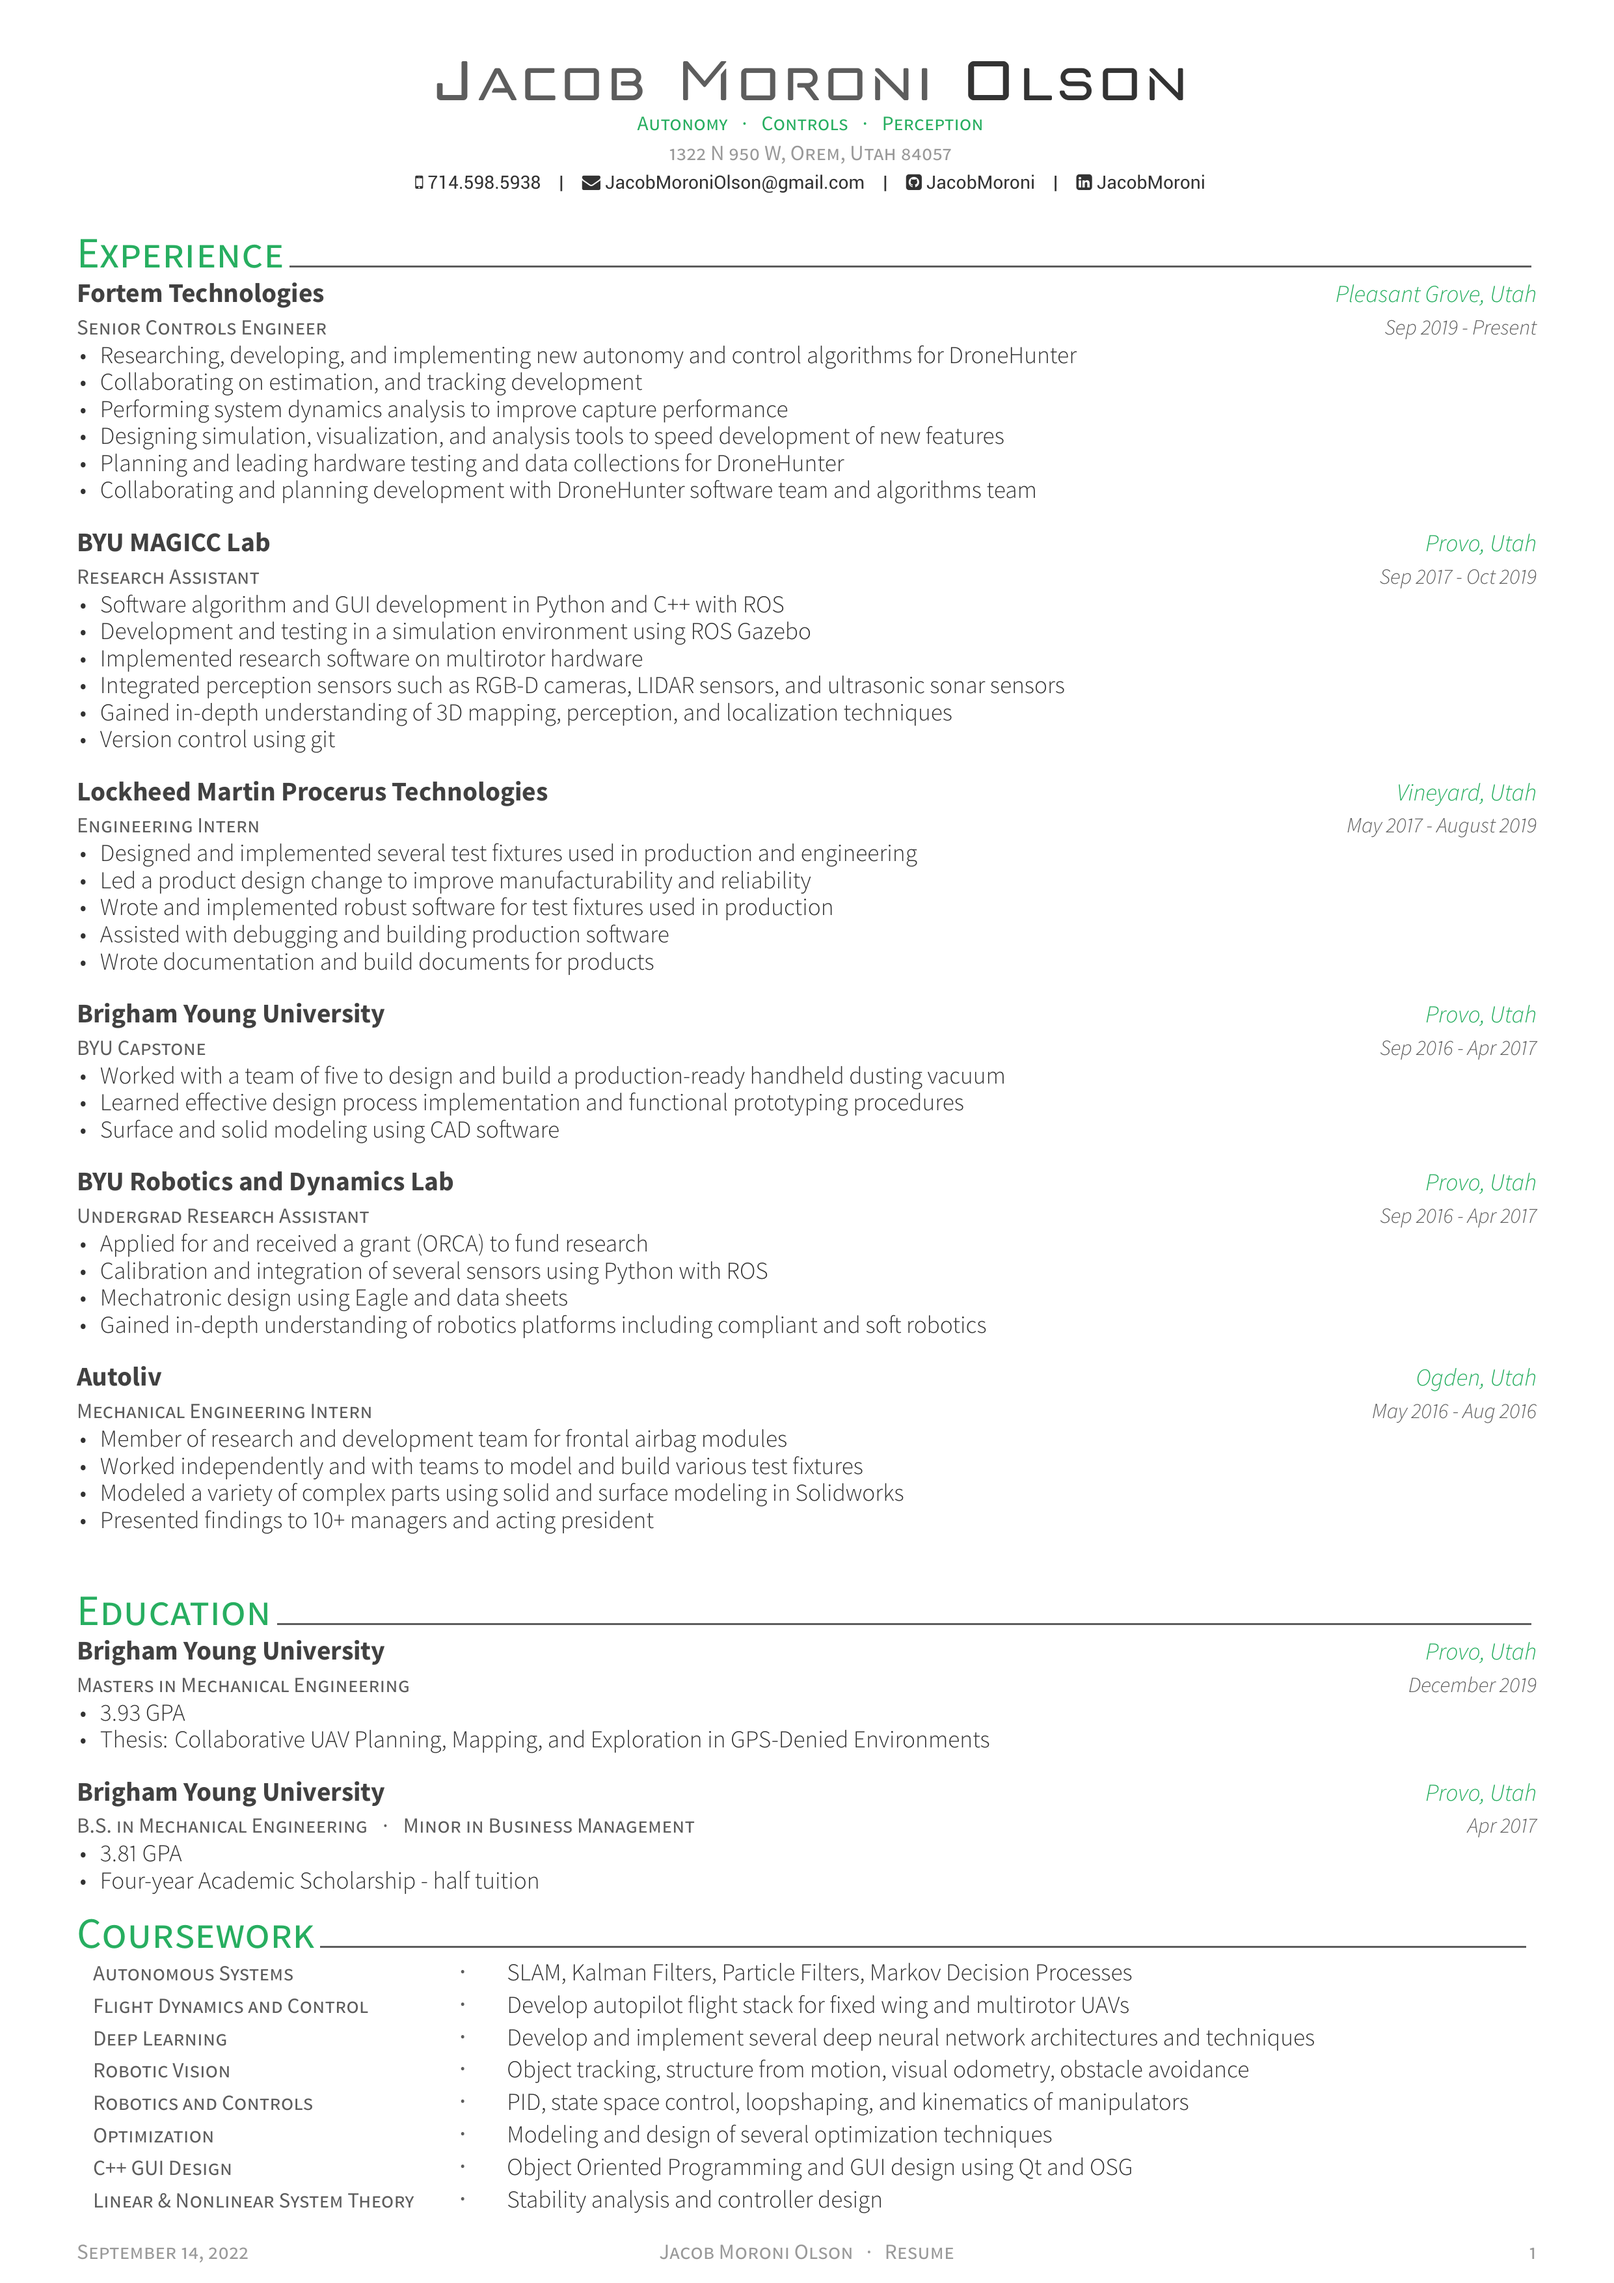
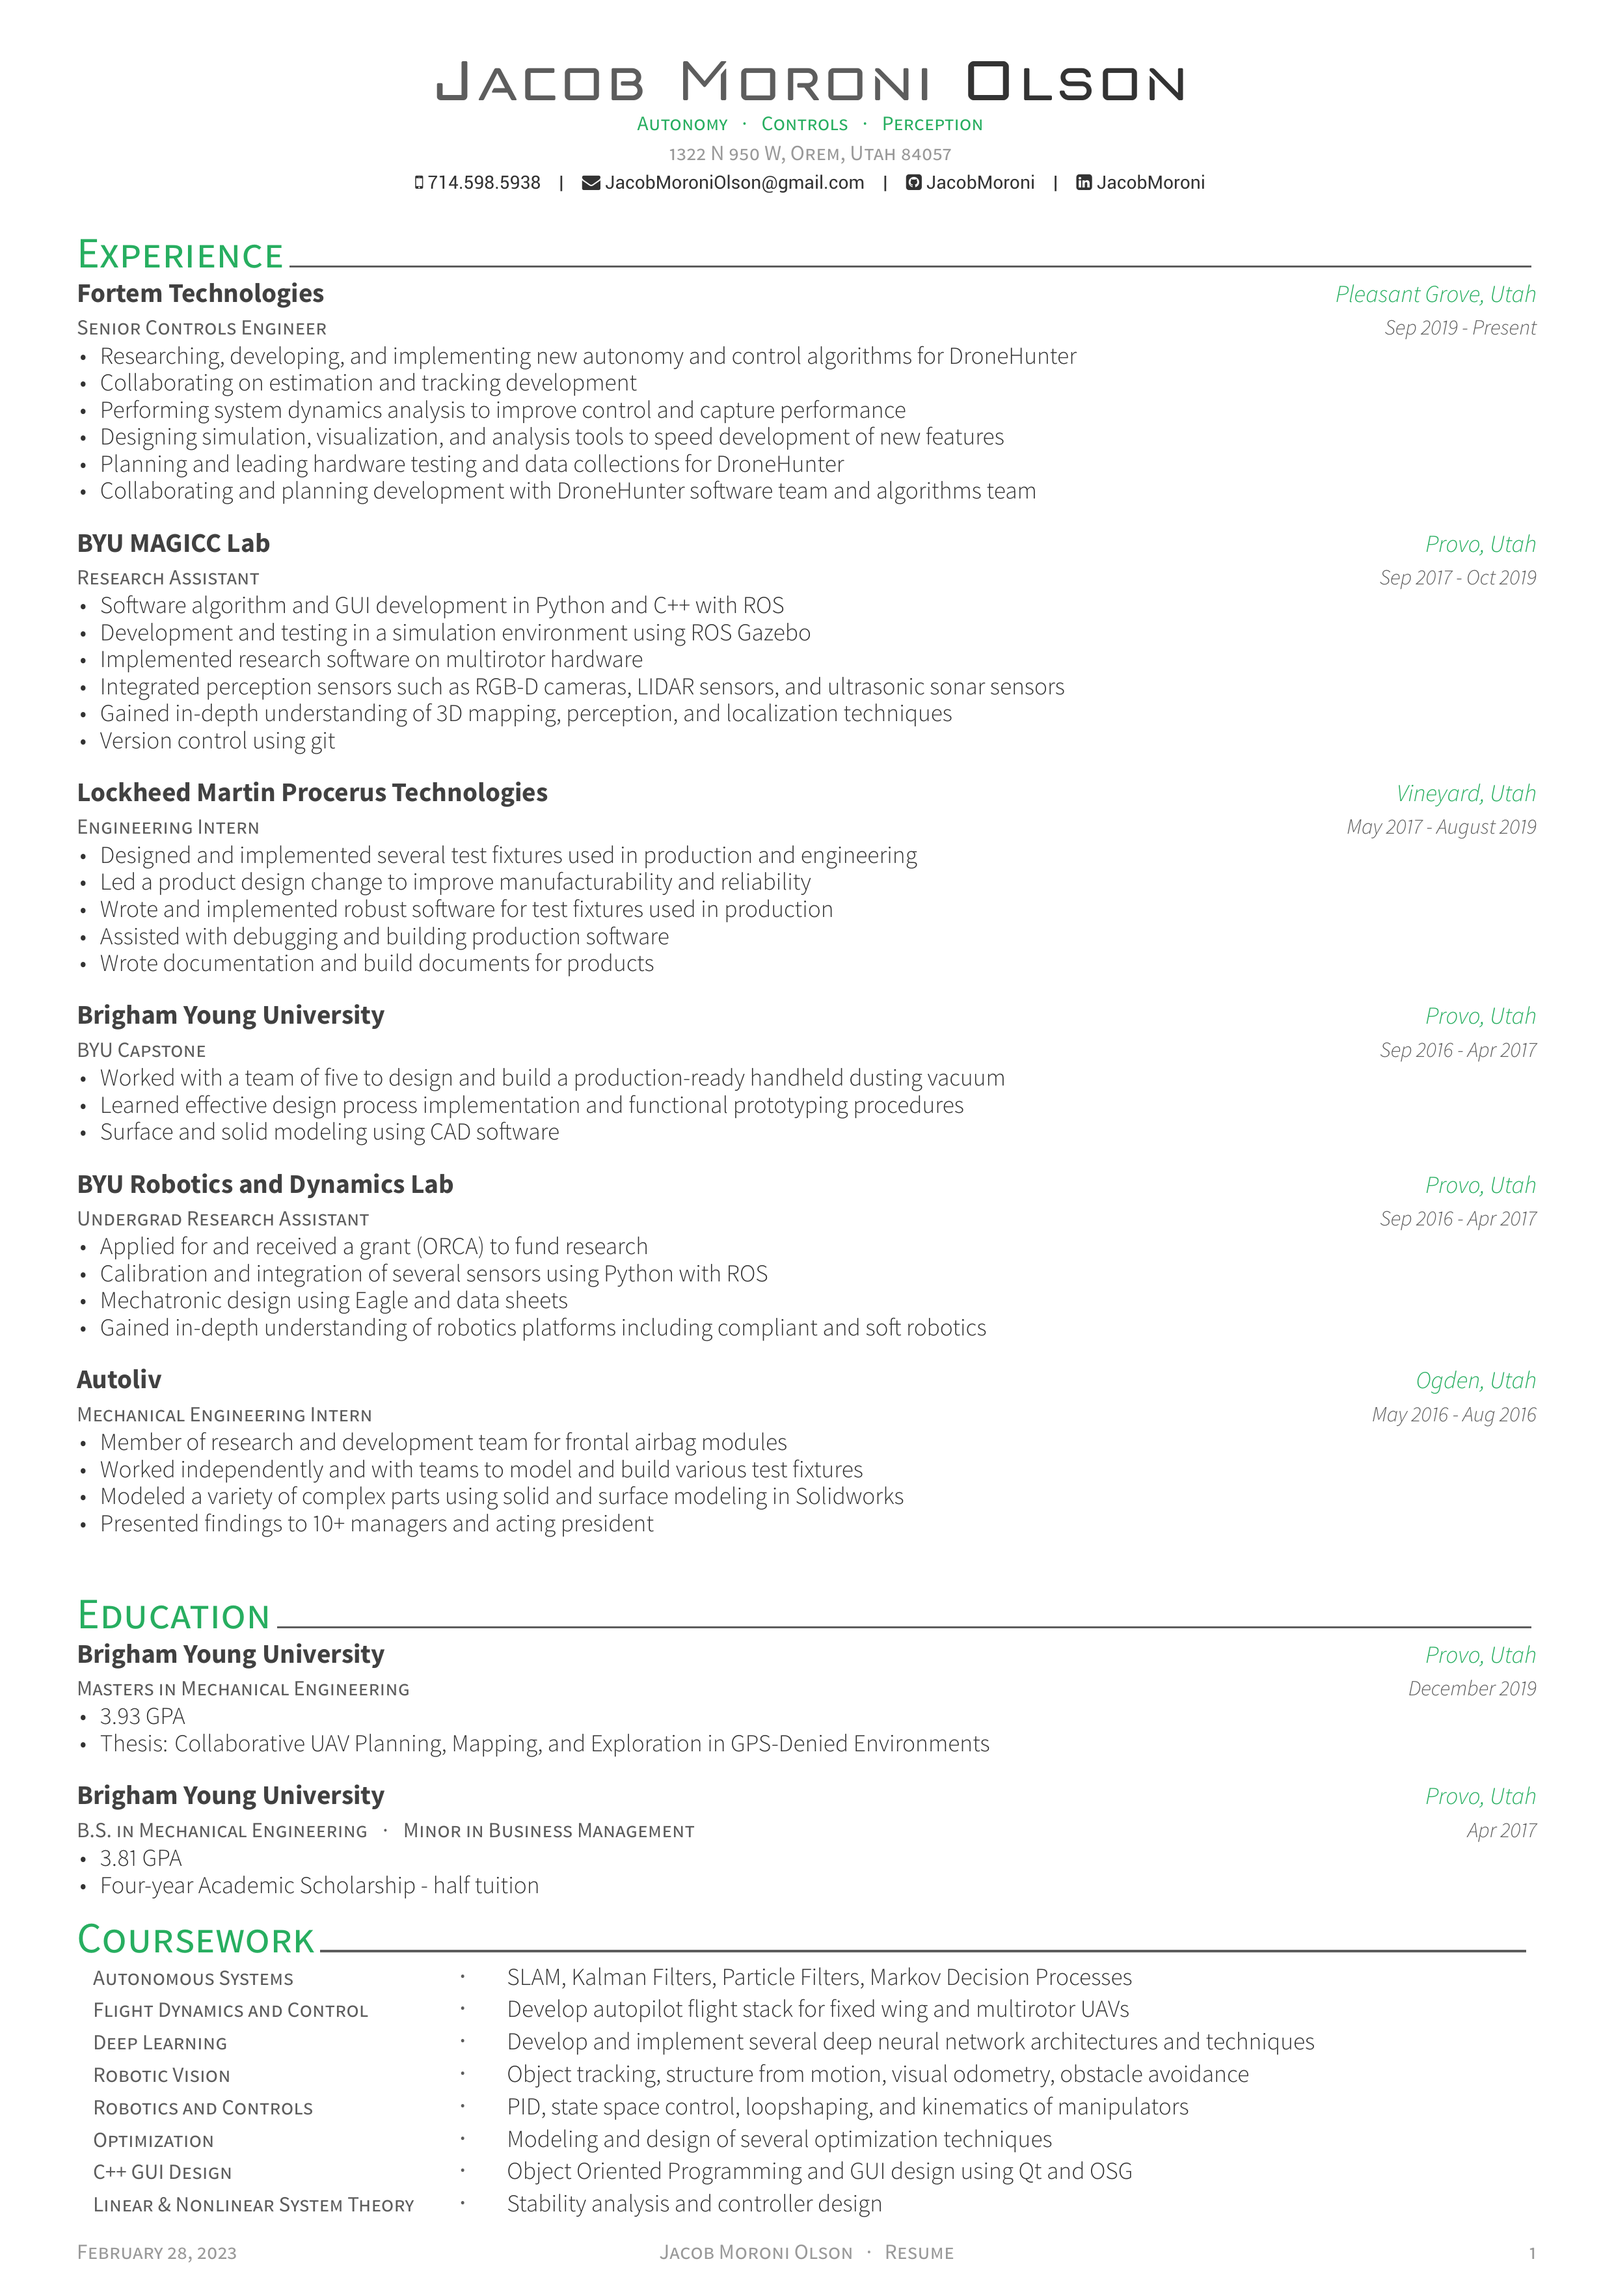
minor update

diff --git a/documents/resume/experience.tex b/documents/resume/experience.tex
@@ -17,8 +17,8 @@
   {
     \begin{cvitems}
       \item{Researching, developing, and implementing new autonomy and control algorithms for DroneHunter}
-      \item{Collaborating on estimation, and tracking development}
-      \item{Performing system dynamics analysis to improve capture performance}
+      \item{Collaborating on estimation and tracking development}
+      \item{Performing system dynamics analysis to improve control and capture performance}
       \item{Designing simulation, visualization, and analysis tools to speed development of new features}
       \item{Planning and leading hardware testing and data collections for DroneHunter}
       \item{Collaborating and planning development with DroneHunter software team and algorithms team}
